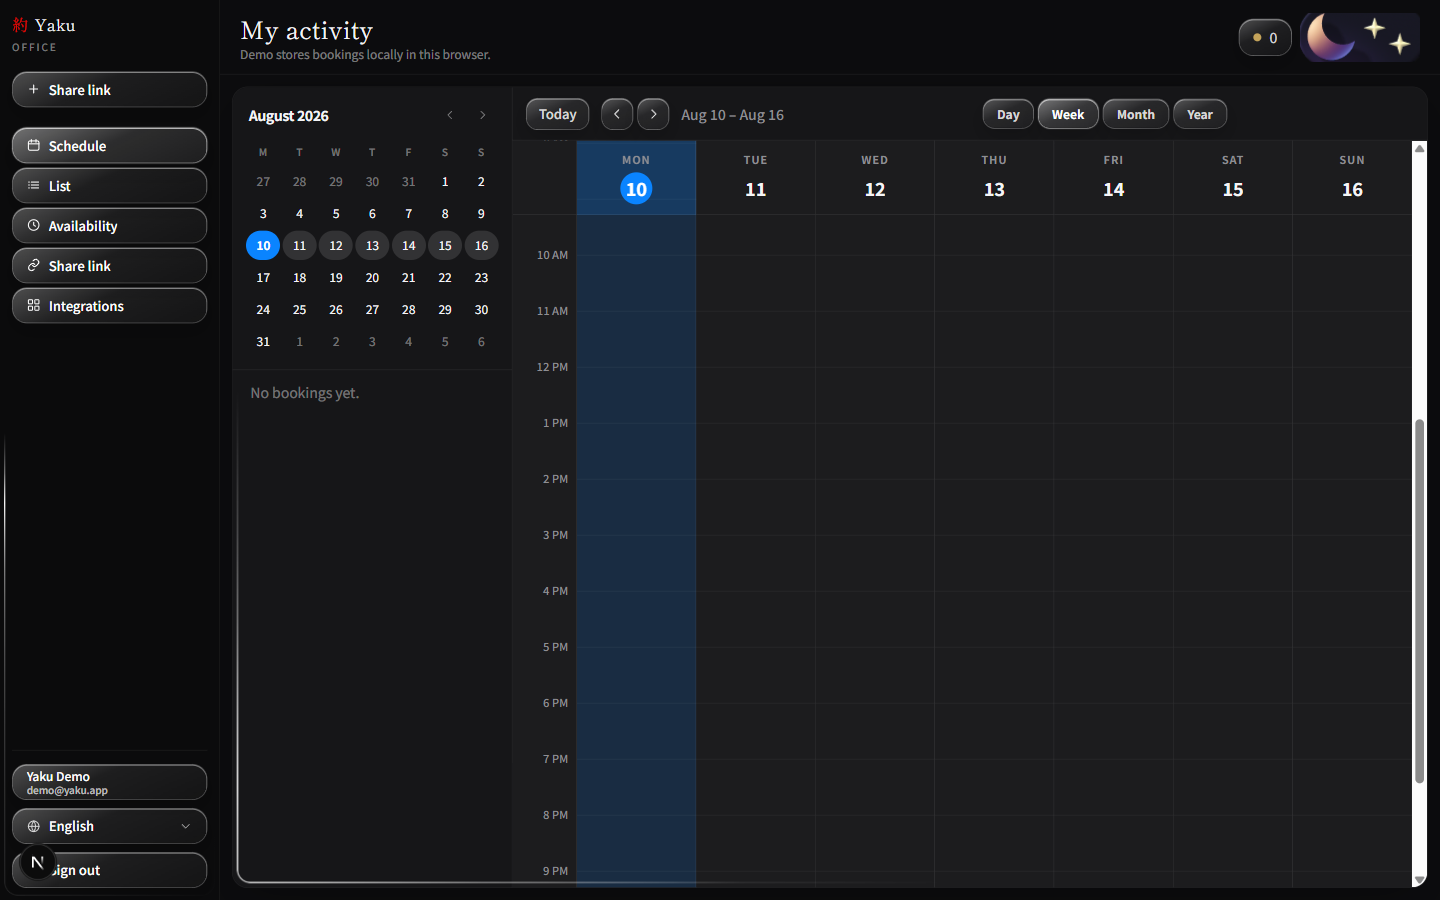
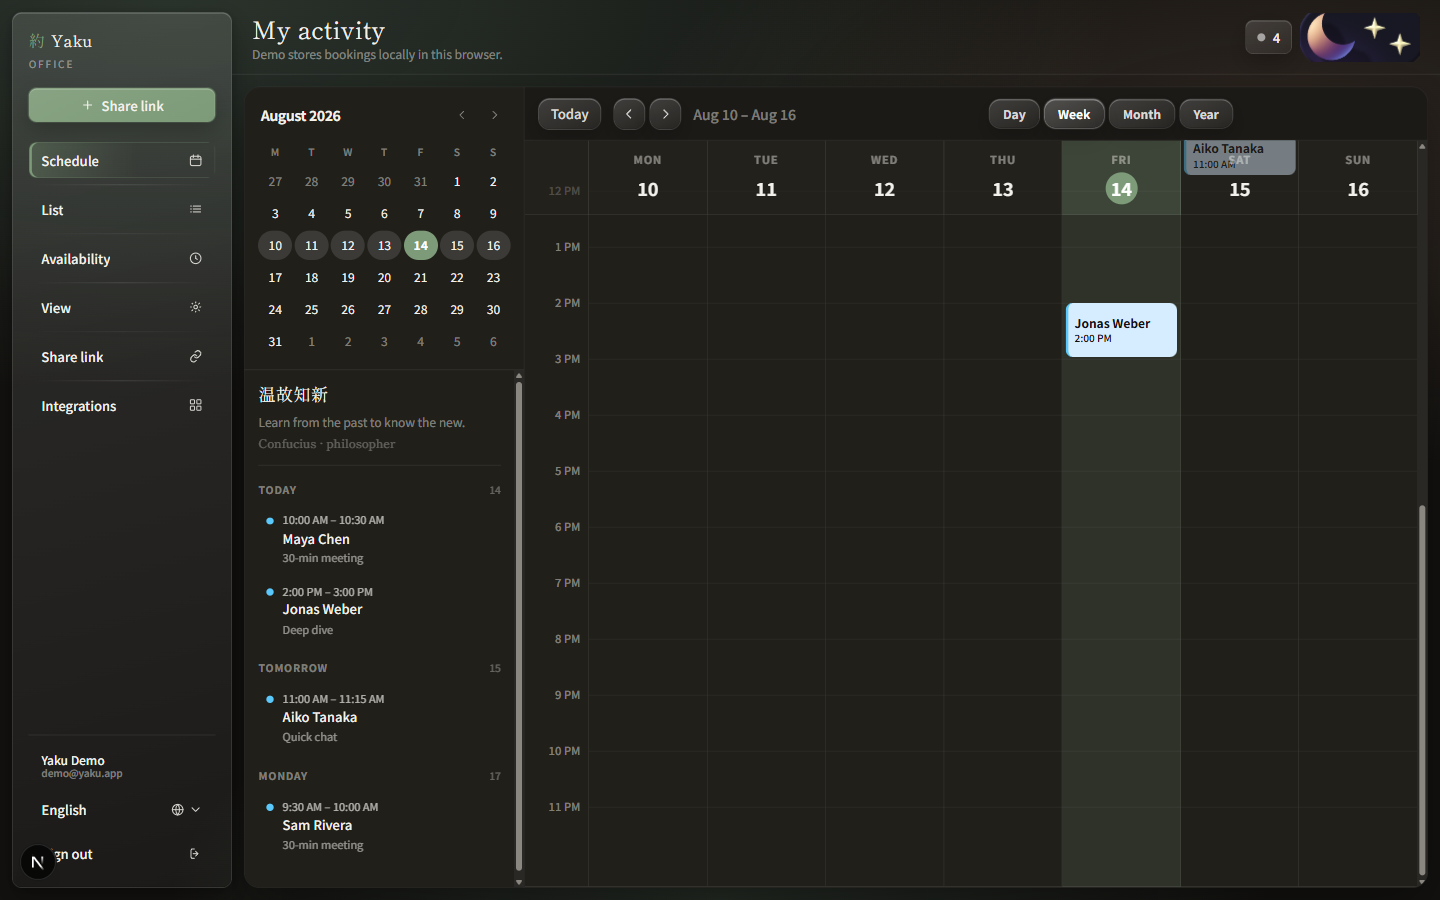
Refresh English README screenshots and document what comes next.

diff --git a/README.md b/README.md
@@ -6,7 +6,7 @@
 
 <p align="center">
   <strong>Open-source scheduling</strong> — a lightweight Calendly alternative.<br />
-  Bookings, host office, and a public link — without the bloat.
+  Guest booking, host office, and a public link. Local-first today; cloud next.
 </p>
 
 <p align="center">
@@ -21,9 +21,9 @@
 
 ## One appointment. No bloat.
 
-Yaku turns open time into real appointments. Guests pick a type, date, and slot on your booking link. Hosts manage everything in a dark/light **office dashboard** — schedule, list, availability, and share.
+Yaku turns open time into real appointments. Guests pick a type, date, and slot on your booking link. Hosts manage everything in a dark/light **office dashboard** — schedule, list, availability (weekly hours, date overrides, holidays), appearance, and share.
 
-Lightweight, open source, self-hostable. Local-first for the demo; backend can move to Supabase later.
+Lightweight, open source, self-hostable. The demo is **local-first** (browser `localStorage`). Production will move to Vercel + Supabase, then email, calendar sync, and Calendly-parity office IA.
 
 ---
 
@@ -53,9 +53,13 @@ Host dashboard (`/host`) with theme toggle, language switcher, and liquid-glass 
 | --- | --- |
 | ![Host schedule week board](docs/screenshots/host-schedule.png) | ![Host booking list](docs/screenshots/host-list.png) |
 
-| Availability | Share link |
+| Availability | View |
 | --- | --- |
-| ![Host availability settings](docs/screenshots/host-availability.png) | ![Host share booking link](docs/screenshots/host-share.png) |
+| ![Host availability — weekly hours and date overrides](docs/screenshots/host-availability.png) | ![Host appearance / booking page background](docs/screenshots/host-appearance.png) |
+
+| Share link |
+| --- |
+| ![Host share booking link](docs/screenshots/host-share.png) |
 
 ### Sign in
 
@@ -76,11 +80,31 @@ Early MVP — default UI language **English** (DE / JA via switcher):
 - **Host office** (`/host`)
   - **Schedule** — Fantastical-style day / week / month / year calendar
   - **List** — searchable booking table
-  - **Availability** — weekdays, hours, buffers, notice, max/day, event types, series
+  - **Availability** — Calendly-style tabs: weekly hours, date overrides, German holidays; buffers, notice, event types, series
+  - **View** — booking-page background
   - **Share link** — copy / open public booking URL
   - **Integrations** — placeholder for Google / Apple calendar
   - Dark / light theme + liquid-glass controls
-- **Local-first** storage in the browser (replaceable with Supabase later)
+- **Local-first** storage in the browser
+
+---
+
+## Coming next
+
+**Soon (local, no cloud required)**
+
+- Calendly-style **office sidebar** (event types / one-off links / polls, meetings, availability)
+- **Meeting limits** (global caps across event types)
+- **One-off / single-use** booking links
+
+**Then (needs a backend)**
+
+- **Vercel** deploy + README split for local demo vs production
+- **Supabase** auth + bookings so guests and hosts are not stuck in one browser
+- Per-host public slug `/b/[slug]`
+- **Email** confirmation (Resend), then reminders
+- **Google Calendar** busy/create (Outlook later)
+- Group events, routing, workflows, payments, teams / admin center
 
 ---
 
